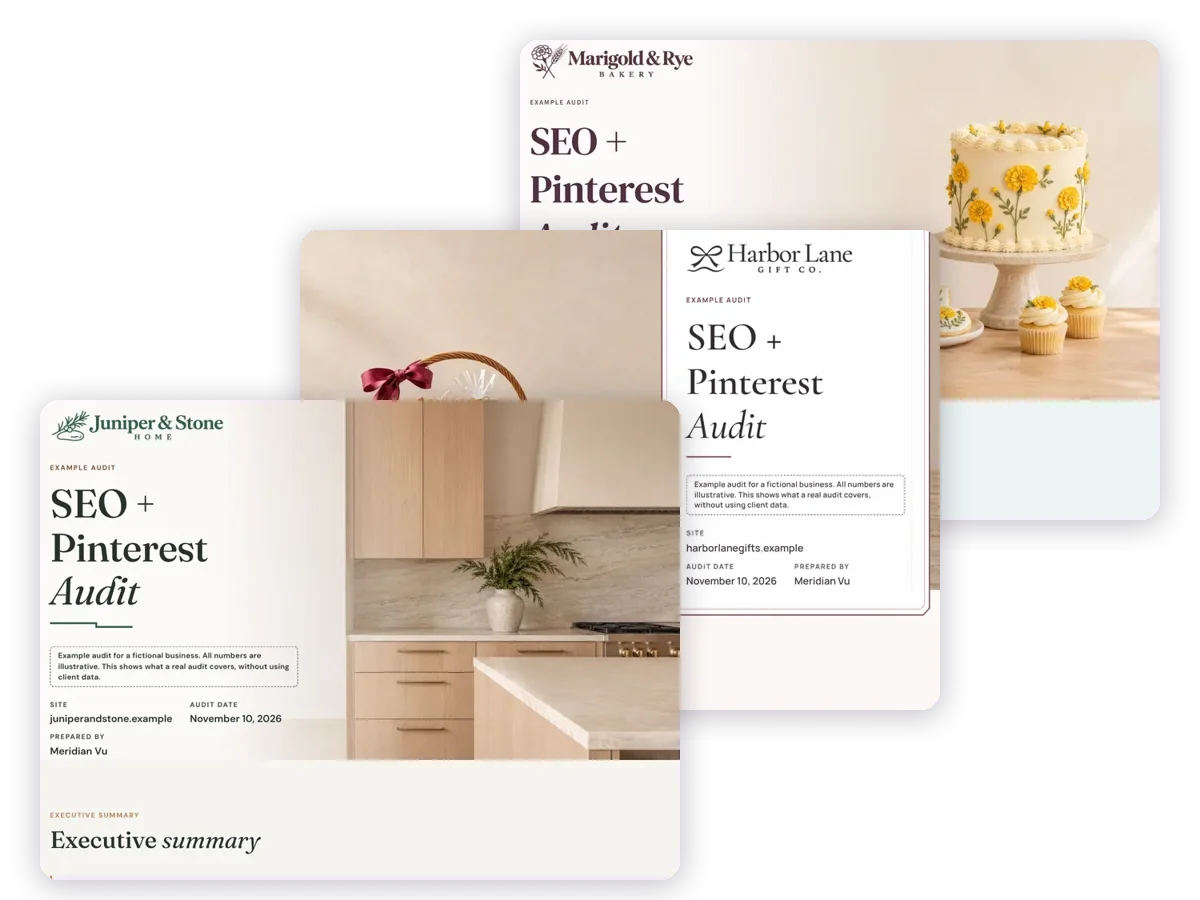
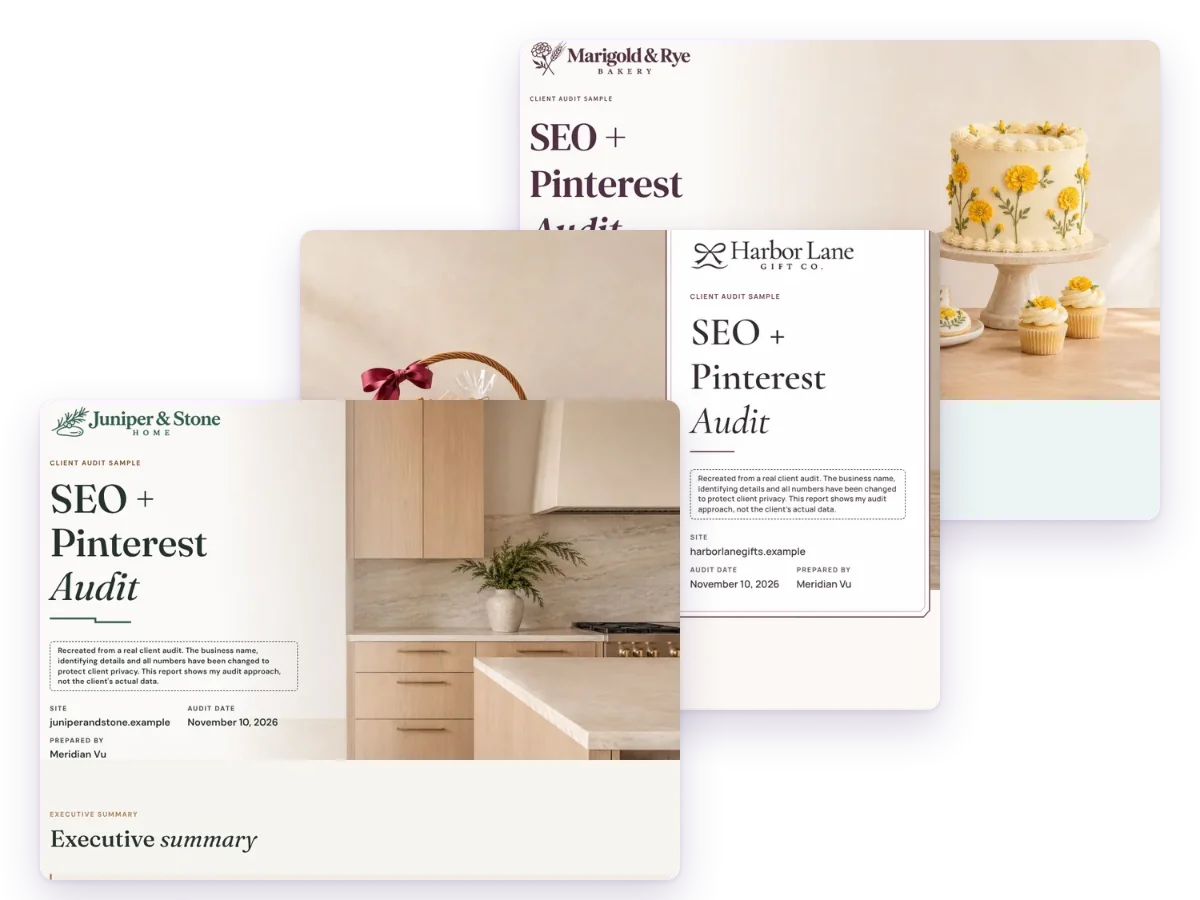
Update share image and cover stack to client audit sample wording

diff --git a/seo-audits.html b/seo-audits.html
@@ -1,7 +1,7 @@
 <!doctype html><html lang="en"><head><meta charset="utf-8"><meta name="viewport" content="width=device-width, initial-scale=1, viewport-fit=cover">
-<title>SEO Client Audit Samples | Meridian Vu</title><script async src="https://www.googletagmanager.com/gtag/js?id=G-GRC1NJB4RV"></script><script>window.dataLayer=window.dataLayer||[];function gtag(){dataLayer.push(arguments);}gtag('js',new Date());gtag('config','G-GRC1NJB4RV');</script><meta property="og:type" content="website"><meta property="og:site_name" content="Meridian Vu"><meta property="og:url" content="https://meridianvu.com/seo-audits"><meta property="og:title" content="SEO Client Audit Samples | Meridian Vu"><meta property="og:description" content="Three SEO and Pinterest audits based on real client work, recreated with details and numbers changed. See health scores, ranked fixes and 90 day plans."><meta property="og:image" content="https://meridianvu.com/og/og-seo-audits.jpg?v=1"><meta property="og:image:width" content="1200"><meta property="og:image:height" content="630"><meta property="og:image:alt" content="SEO client audit samples by Meridian Vu"><meta name="twitter:card" content="summary_large_image"><meta name="twitter:title" content="SEO Client Audit Samples | Meridian Vu"><meta name="twitter:description" content="Three SEO and Pinterest audits based on real client work, recreated with details and numbers changed. See health scores, ranked fixes and 90 day plans."><meta name="twitter:image" content="https://meridianvu.com/og/og-seo-audits.jpg?v=1"><link rel="canonical" href="https://meridianvu.com/seo-audits"><meta name="description" content="Three SEO and Pinterest audits recreated from real client work, with details and numbers changed for privacy: a home improvement retailer, a gift basket shop and a custom bakery.">
+<title>SEO Client Audit Samples | Meridian Vu</title><script async src="https://www.googletagmanager.com/gtag/js?id=G-GRC1NJB4RV"></script><script>window.dataLayer=window.dataLayer||[];function gtag(){dataLayer.push(arguments);}gtag('js',new Date());gtag('config','G-GRC1NJB4RV');</script><meta property="og:type" content="website"><meta property="og:site_name" content="Meridian Vu"><meta property="og:url" content="https://meridianvu.com/seo-audits"><meta property="og:title" content="SEO Client Audit Samples | Meridian Vu"><meta property="og:description" content="Three SEO and Pinterest audits based on real client work, recreated with details and numbers changed. See health scores, ranked fixes and 90 day plans."><meta property="og:image" content="https://meridianvu.com/og/og-seo-audits.jpg?v=2"><meta property="og:image:width" content="1200"><meta property="og:image:height" content="630"><meta property="og:image:alt" content="SEO client audit samples by Meridian Vu"><meta name="twitter:card" content="summary_large_image"><meta name="twitter:title" content="SEO Client Audit Samples | Meridian Vu"><meta name="twitter:description" content="Three SEO and Pinterest audits based on real client work, recreated with details and numbers changed. See health scores, ranked fixes and 90 day plans."><meta name="twitter:image" content="https://meridianvu.com/og/og-seo-audits.jpg?v=2"><link rel="canonical" href="https://meridianvu.com/seo-audits"><meta name="description" content="Three SEO and Pinterest audits recreated from real client work, with details and numbers changed for privacy: a home improvement retailer, a gift basket shop and a custom bakery.">
 <meta name="theme-color" content="#5b3f8c"><link rel="icon" href="favicon.ico?v=2" sizes="any"><link rel="icon" type="image/svg+xml" href="favicon.svg?v=2"><link rel="icon" type="image/png" sizes="32x32" href="favicon-32.png?v=2"><link rel="apple-touch-icon" href="apple-touch-icon.png?v=2">
-<link rel="preconnect" href="https://fonts.googleapis.com"><link rel="preconnect" href="https://fonts.gstatic.com" crossorigin><link rel="stylesheet" href="https://fonts.googleapis.com/css2?family=Fraunces:opsz,wght@9..144,500;9..144,600;9..144,700&family=Source+Sans+3:wght@400;600;700&family=Caveat:wght@600;700&display=swap"><link rel="stylesheet" href="style.css"><script type="application/ld+json">{"@context":"https://schema.org","@type":"CollectionPage","name":"SEO Client Audit Samples","url":"https://meridianvu.com/seo-audits","author":{"@type":"Person","@id":"https://meridianvu.com/#meridian","name":"Meridian Vu"},"description":"Three SEO and Pinterest audits recreated from real client work, with business names, identifying details and numbers changed to protect client privacy.","dateModified":"2026-11-11"}</script></head><body><a class="skip" href="#main-content">Skip to content</a><header class="nav"><div class="in"><a class="brand" href="index.html" aria-label="Meridian Vu, home"><img class="wm" src="logo/wordmark-line.svg" alt="Meridian Vu" width="151" height="30"></a><nav class="primary" aria-label="Main"><ul id="site-menu" class="menu"><li><a class="link" href="services.html">Services</a></li><li><a class="link" href="index.html#case-studies">Case&nbsp;studies</a></li><li><a class="link" href="portfolio.html">Portfolio</a></li><li class="more"><button type="button" class="more-btn" aria-expanded="false" aria-controls="more-panel">More<svg viewBox="0 0 12 12" aria-hidden="true"><path d="M2 4l4 4 4-4" fill="none" stroke="currentColor" stroke-width="1.8" stroke-linecap="round" stroke-linejoin="round"/></svg></button><ul id="more-panel" class="more-panel" hidden><li><a href="skills.html">Free AI skills</a></li><li><a href="resume.html">Resume</a></li></ul></li><li class="m-only"><a class="link" href="index.html">Home</a></li></ul></nav><div class="hdr-acts"><button type="button" class="menu-btn" aria-expanded="false" aria-controls="site-menu"><span class="burger" aria-hidden="true"></span><span class="lbl">Menu</span></button><a class="btn" href="#contact">Let's&nbsp;talk</a></div></div></header><main id="main-content"><section class="cs-hero"><div class="wrap grid"><div class="copy"><a class="backlink" href="portfolio.html">&#8592; All portfolio&nbsp;projects</a><span class="eyebrow">SEO and Pinterest&nbsp;audits</span><h1>Audits that show what to fix&nbsp;first</h1><p class="lede">I look at how shoppers find your store, what turns into sales, and where you may be losing orders. Then I show you what to fix first. These three reports are recreated from real client audits, with names, identifying details and numbers changed to protect client&nbsp;privacy.</p><div class="trust" style="margin-top:6px"><span class="chip">9 areas <b>scored</b></span><span class="chip">Fixes <b>ranked</b></span><span class="chip">90 day <b>plan</b></span><span class="chip">Plain <b>words</b></span></div></div><div><img src="img/p/seo-audits/audits-stack.webp" alt="Covers of three SEO client audit samples: a home improvement retailer, a gift basket shop and a custom bakery" width="1200" height="900" decoding="async" style="width:100%;height:auto"></div></div></section>
+<link rel="preconnect" href="https://fonts.googleapis.com"><link rel="preconnect" href="https://fonts.gstatic.com" crossorigin><link rel="stylesheet" href="https://fonts.googleapis.com/css2?family=Fraunces:opsz,wght@9..144,500;9..144,600;9..144,700&family=Source+Sans+3:wght@400;600;700&family=Caveat:wght@600;700&display=swap"><link rel="stylesheet" href="style.css"><script type="application/ld+json">{"@context":"https://schema.org","@type":"CollectionPage","name":"SEO Client Audit Samples","url":"https://meridianvu.com/seo-audits","author":{"@type":"Person","@id":"https://meridianvu.com/#meridian","name":"Meridian Vu"},"description":"Three SEO and Pinterest audits recreated from real client work, with business names, identifying details and numbers changed to protect client privacy.","dateModified":"2026-11-11"}</script></head><body><a class="skip" href="#main-content">Skip to content</a><header class="nav"><div class="in"><a class="brand" href="index.html" aria-label="Meridian Vu, home"><img class="wm" src="logo/wordmark-line.svg" alt="Meridian Vu" width="151" height="30"></a><nav class="primary" aria-label="Main"><ul id="site-menu" class="menu"><li><a class="link" href="services.html">Services</a></li><li><a class="link" href="index.html#case-studies">Case&nbsp;studies</a></li><li><a class="link" href="portfolio.html">Portfolio</a></li><li class="more"><button type="button" class="more-btn" aria-expanded="false" aria-controls="more-panel">More<svg viewBox="0 0 12 12" aria-hidden="true"><path d="M2 4l4 4 4-4" fill="none" stroke="currentColor" stroke-width="1.8" stroke-linecap="round" stroke-linejoin="round"/></svg></button><ul id="more-panel" class="more-panel" hidden><li><a href="skills.html">Free AI skills</a></li><li><a href="resume.html">Resume</a></li></ul></li><li class="m-only"><a class="link" href="index.html">Home</a></li></ul></nav><div class="hdr-acts"><button type="button" class="menu-btn" aria-expanded="false" aria-controls="site-menu"><span class="burger" aria-hidden="true"></span><span class="lbl">Menu</span></button><a class="btn" href="#contact">Let's&nbsp;talk</a></div></div></header><main id="main-content"><section class="cs-hero"><div class="wrap grid"><div class="copy"><a class="backlink" href="portfolio.html">&#8592; All portfolio&nbsp;projects</a><span class="eyebrow">SEO and Pinterest&nbsp;audits</span><h1>Audits that show what to fix&nbsp;first</h1><p class="lede">I look at how shoppers find your store, what turns into sales, and where you may be losing orders. Then I show you what to fix first. These three reports are recreated from real client audits, with names, identifying details and numbers changed to protect client&nbsp;privacy.</p><div class="trust" style="margin-top:6px"><span class="chip">9 areas <b>scored</b></span><span class="chip">Fixes <b>ranked</b></span><span class="chip">90 day <b>plan</b></span><span class="chip">Plain <b>words</b></span></div></div><div><img src="img/p/seo-audits/audits-stack.webp?v=2" alt="Covers of three SEO client audit samples: a home improvement retailer, a gift basket shop and a custom bakery" width="1200" height="900" decoding="async" style="width:100%;height:auto"></div></div></section>
 <section class="section pgsec" id="examples"><div class="wrap"><div class="sec-head"><span class="eyebrow">Open a full&nbsp;report</span><h2>Three client audit&nbsp;samples</h2><p class="lede">These are based on audits I completed for real clients. I changed the business details and numbers to protect their privacy, so you can see the work behind each&nbsp;audit.</p></div><div class="mwgrid three"><a class="mw" href="audits/example-home-improvement/" target="_blank" rel="noopener"><div class="art"><img src="img/p/seo-audits/home-audit-cover.webp?v=2" alt="Cover and summary of the home improvement retailer audit, recreated with details changed for client privacy" width="800" height="600" loading="lazy" decoding="async"></div><div class="t"><span class="tag">Client work sample</span><b>Home improvement retailer</b><span>Ranked fixes for a large catalog store: product page titles, broken links and missing sales tracking</span></div></a><a class="mw" href="audits/example-gift-shop/" target="_blank" rel="noopener"><div class="art"><img src="img/p/seo-audits/gift-audit-cover.webp?v=2" alt="Cover and summary of the gift basket shop audit, recreated with details changed for client privacy" width="800" height="600" loading="lazy" decoding="async"></div><div class="t"><span class="tag">Client work sample</span><b>Gift basket shop</b><span>Holiday readiness, a short search history, reviews and sales from AI assistants</span></div></a><a class="mw" href="audits/example-bakery/" target="_blank" rel="noopener"><div class="art"><img src="img/p/seo-audits/bakery-audit-cover.webp?v=2" alt="Cover and summary of the custom bakery audit, recreated with details changed for client privacy" width="800" height="600" loading="lazy" decoding="async"></div><div class="t"><span class="tag">Client work sample</span><b>Custom bakery</b><span>A site rebuild that lost its top search page, call to order sales and local reviews</span></div></a></div></div></section>
 <section class="section pgsec alt" id="whats-inside"><div class="wrap prose2"><div><span class="eyebrow">What you&nbsp;get</span><h2>One page your team can act&nbsp;on</h2></div><div class="stack"><ul class="ticks"><li>A health score across 9 areas, from tracking and speed to AI search and&nbsp;Pinterest.</li><li>I rank the fixes by their likely impact on sales and show you the evidence behind each&nbsp;one.</li><li>I compare your search traffic with your actual orders, so you can see what's bringing in&nbsp;sales.</li><li>I check whether Google and ChatGPT recommend your store and what they say about&nbsp;it.</li><li>A 90 day plan with clear next steps, who handles each one, and what to&nbsp;measure.</li><li>Designed in your brand, built from your real products, and readable on a&nbsp;phone.</li></ul><p>I can also rebuild an audit from an earlier date from your own data, so you can see what changed since then.</p></div></div></section>
 <section class="section pgsec"><div class="wrap"><div class="sec-head"><span class="eyebrow">Client case&nbsp;studies</span><h2>See more of my&nbsp;work</h2></div><div class="mwgrid"><a class="mw" href="kbf-case-study.html"><div class="art"><img src="img/p/kbf/warm-oak-kitchen-render.webp" alt="KBF Home Improvement project preview" loading="lazy" decoding="async"></div><div class="t"><span class="tag">Client work</span><b>KBF Home&nbsp;Improvement</b><span>AI systems that save 190 hours a week on a 15,000+ product store, as sales grew&nbsp;129%</span></div></a><a class="mw" href="bgb-case-study.html"><div class="art"><img src="img/thumb-bgb-ba.webp" alt="Before and after: the old Boston Gift Baskets homepage next to the new one" loading="lazy" decoding="async"></div><div class="t"><span class="tag">Client work</span><b>Boston Gift&nbsp;Baskets</b><span>Shopify growth retainer: +70% sales since&nbsp;September</span></div></a><a class="mw" href="iris-lee-migration-case-study.html"><div class="art"><img src="img/mig/thumb-iris-migration.webp" alt="Before and after: the old Iris Lee WordPress site next to the new Shopify store" loading="lazy" decoding="async"></div><div class="t"><span class="tag">Client work</span><b>Iris Lee: WordPress to&nbsp;Shopify</b><span>A partly finished migration, completed: 365 listings live and&nbsp;priced</span></div></a><a class="mw" href="pinterest-social.html"><div class="art"><img src="img/p/meridian-vu/mv-pinterest-feed-thumb.webp" alt="Pinterest and social project preview" loading="lazy" style="object-position:center top" decoding="async"></div><div class="t"><b>Pinterest and&nbsp;social</b><span>New and refreshed Pinterest feeds for seven&nbsp;brands</span></div></a></div><p style="margin-top:22px"><a class="backlink" href="portfolio.html">&#8592; All portfolio&nbsp;projects</a></p></div></section><div class="wrap" style="padding-bottom:56px"><section id="contact"><div class="band"><div class="stack"><span class="hand">let's make your week lighter &#9825;</span><h2>Want an audit like this for your&nbsp;store?</h2>
